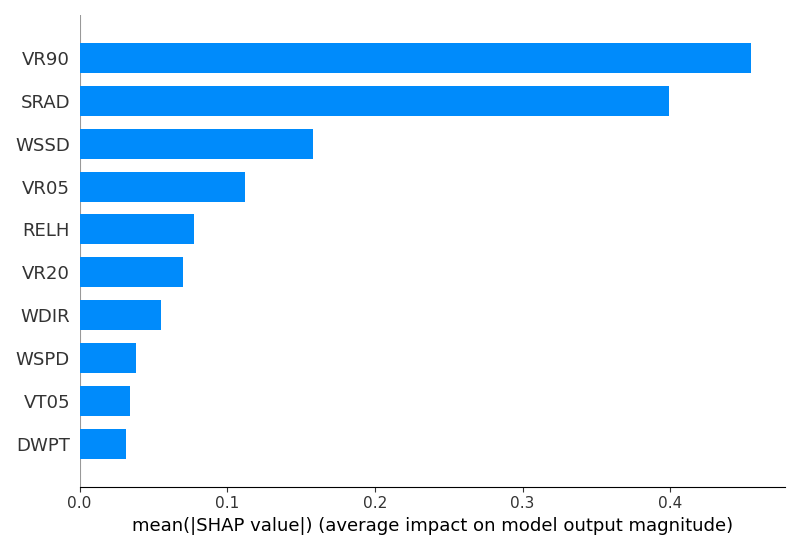
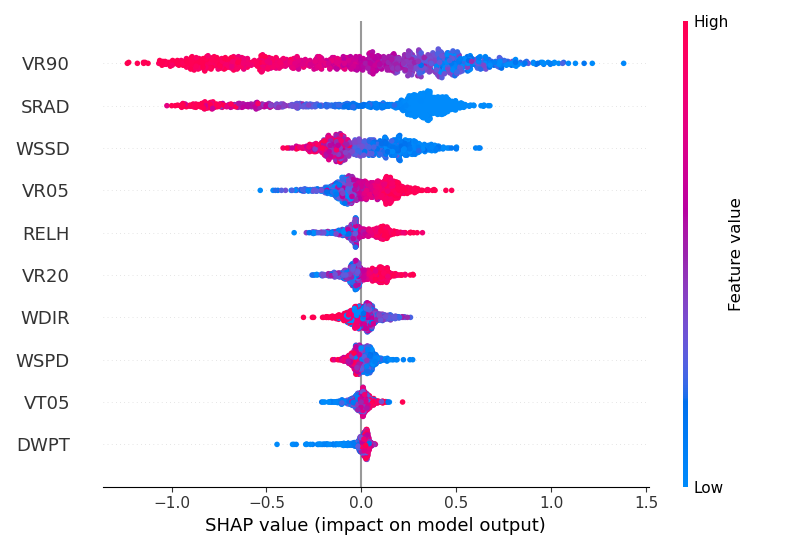
SHAP graphs display in SHAP beeswarm instead of bars

Changed region(s): [[0.0, 0.0309, 0.9375, 0.9891], [0.9062, 0.3709, 0.9375, 0.5873], [0.0625, 0.8964, 0.125, 0.9273]]

diff --git a/Feature Significance Scripts/feature_significance.py b/Feature Significance Scripts/feature_significance.py
@@ -31,7 +31,7 @@ def calculateFeatureImportance(df: DataFrame , target_col: str, excluded_feature
     print("Prediction complete. Calculating feature importances...")
     dt_imp = pd.Series(dt.feature_importances_, index=X.columns)
     print("DT feature importances calculated.")
-
+    
     print("Random forest training/testing...\n")
     # Random Forest
     print("Initializing random forest regressor...")
@@ -45,7 +45,7 @@ def calculateFeatureImportance(df: DataFrame , target_col: str, excluded_feature
     print("Permutation importance calculation complete.")
     rf_imp = pd.Series(rf_perm.importances_mean, index=X.columns)
     print("RF importance series created.")
-
+    
     print("SHAP training/testing...\n")
     # SHAP values (using Random Forest)
     print("Initializing SHAP explainer...")
@@ -81,10 +81,10 @@ def calculateFeatureImportance(df: DataFrame , target_col: str, excluded_feature
     plt.gca().invert_yaxis()
     plt.tight_layout()
     plt.show()
-
+    
     print("Plotting SHAP...\n")
     # Plot SHAP summary
-    shap.summary_plot(shap_values, X_test_sample, plot_type="bar", max_display=10)
+    shap.summary_plot(shap_values, X_test_sample, max_display=10)
     print(" ")
 
     # ---- Model Performance Comparison ---- #
